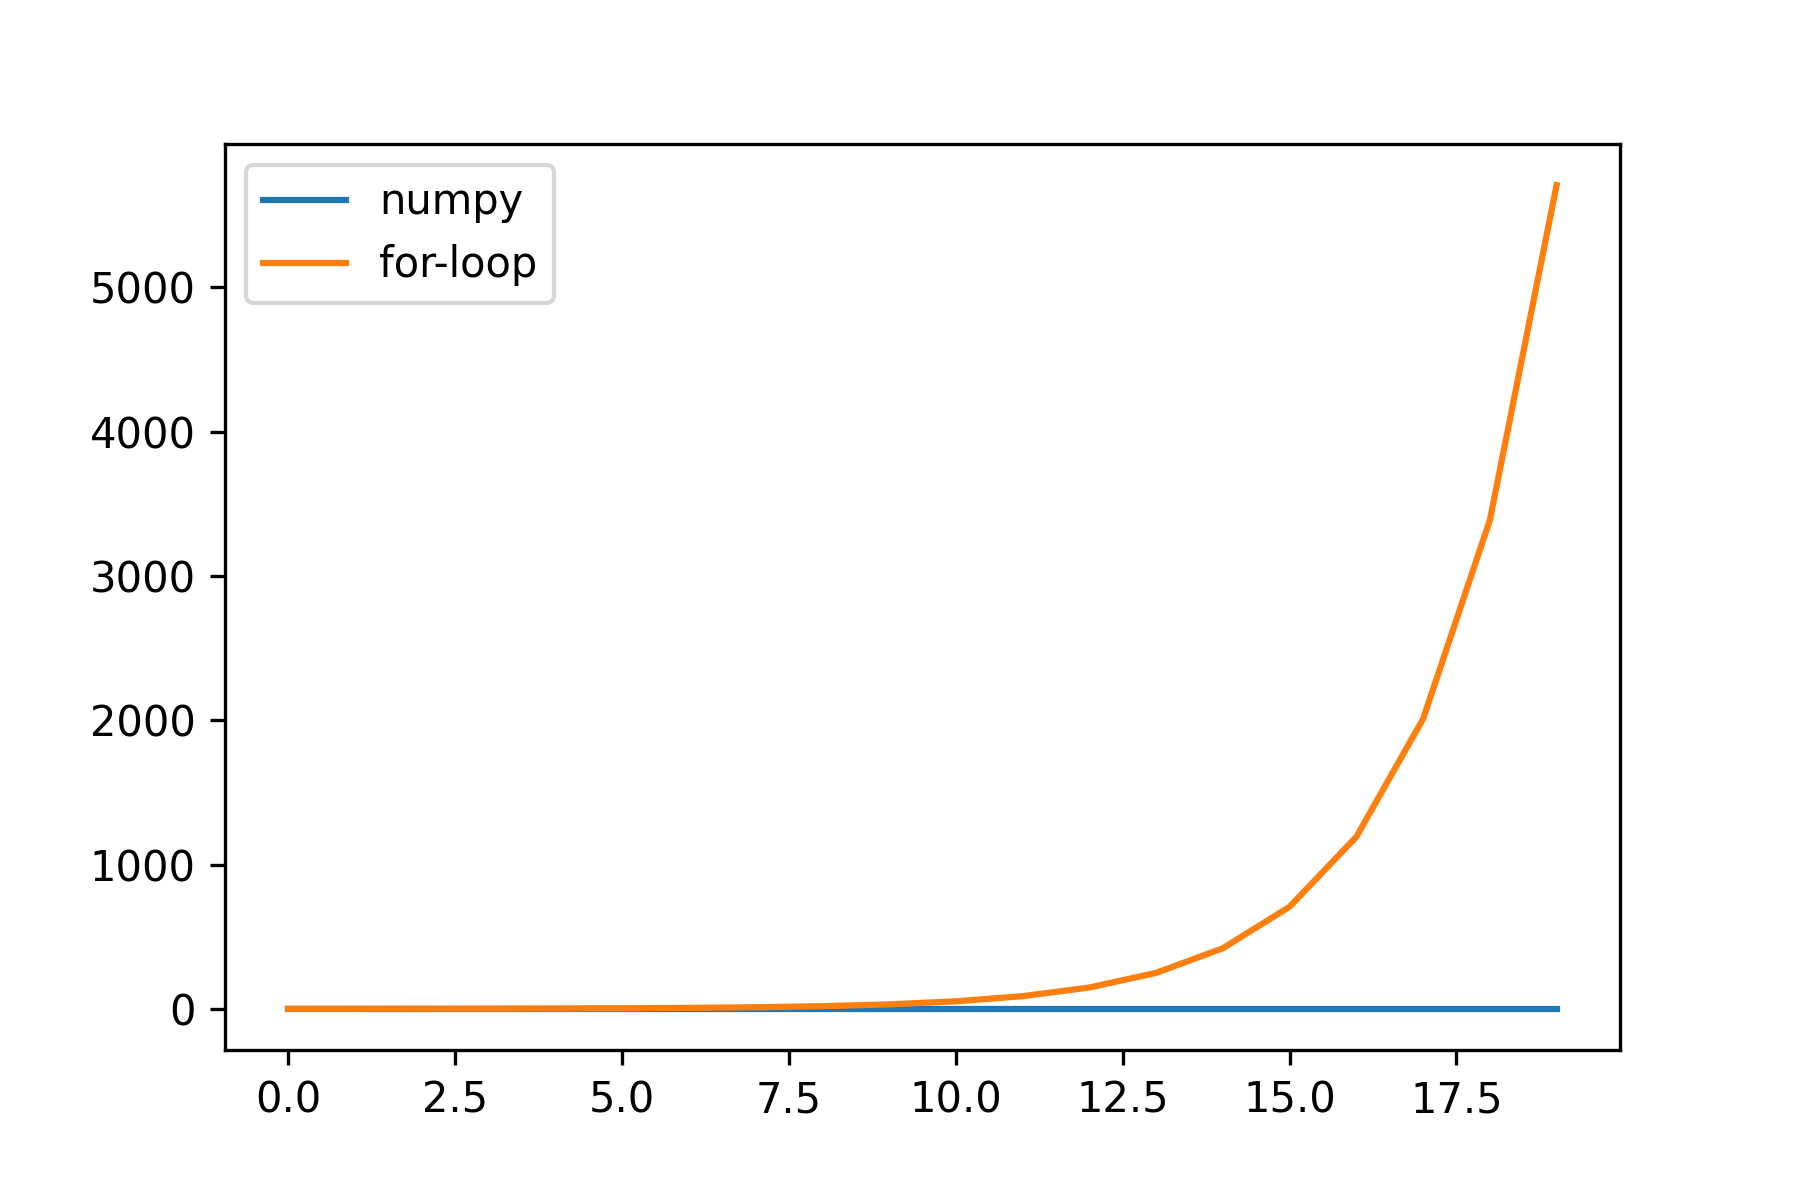
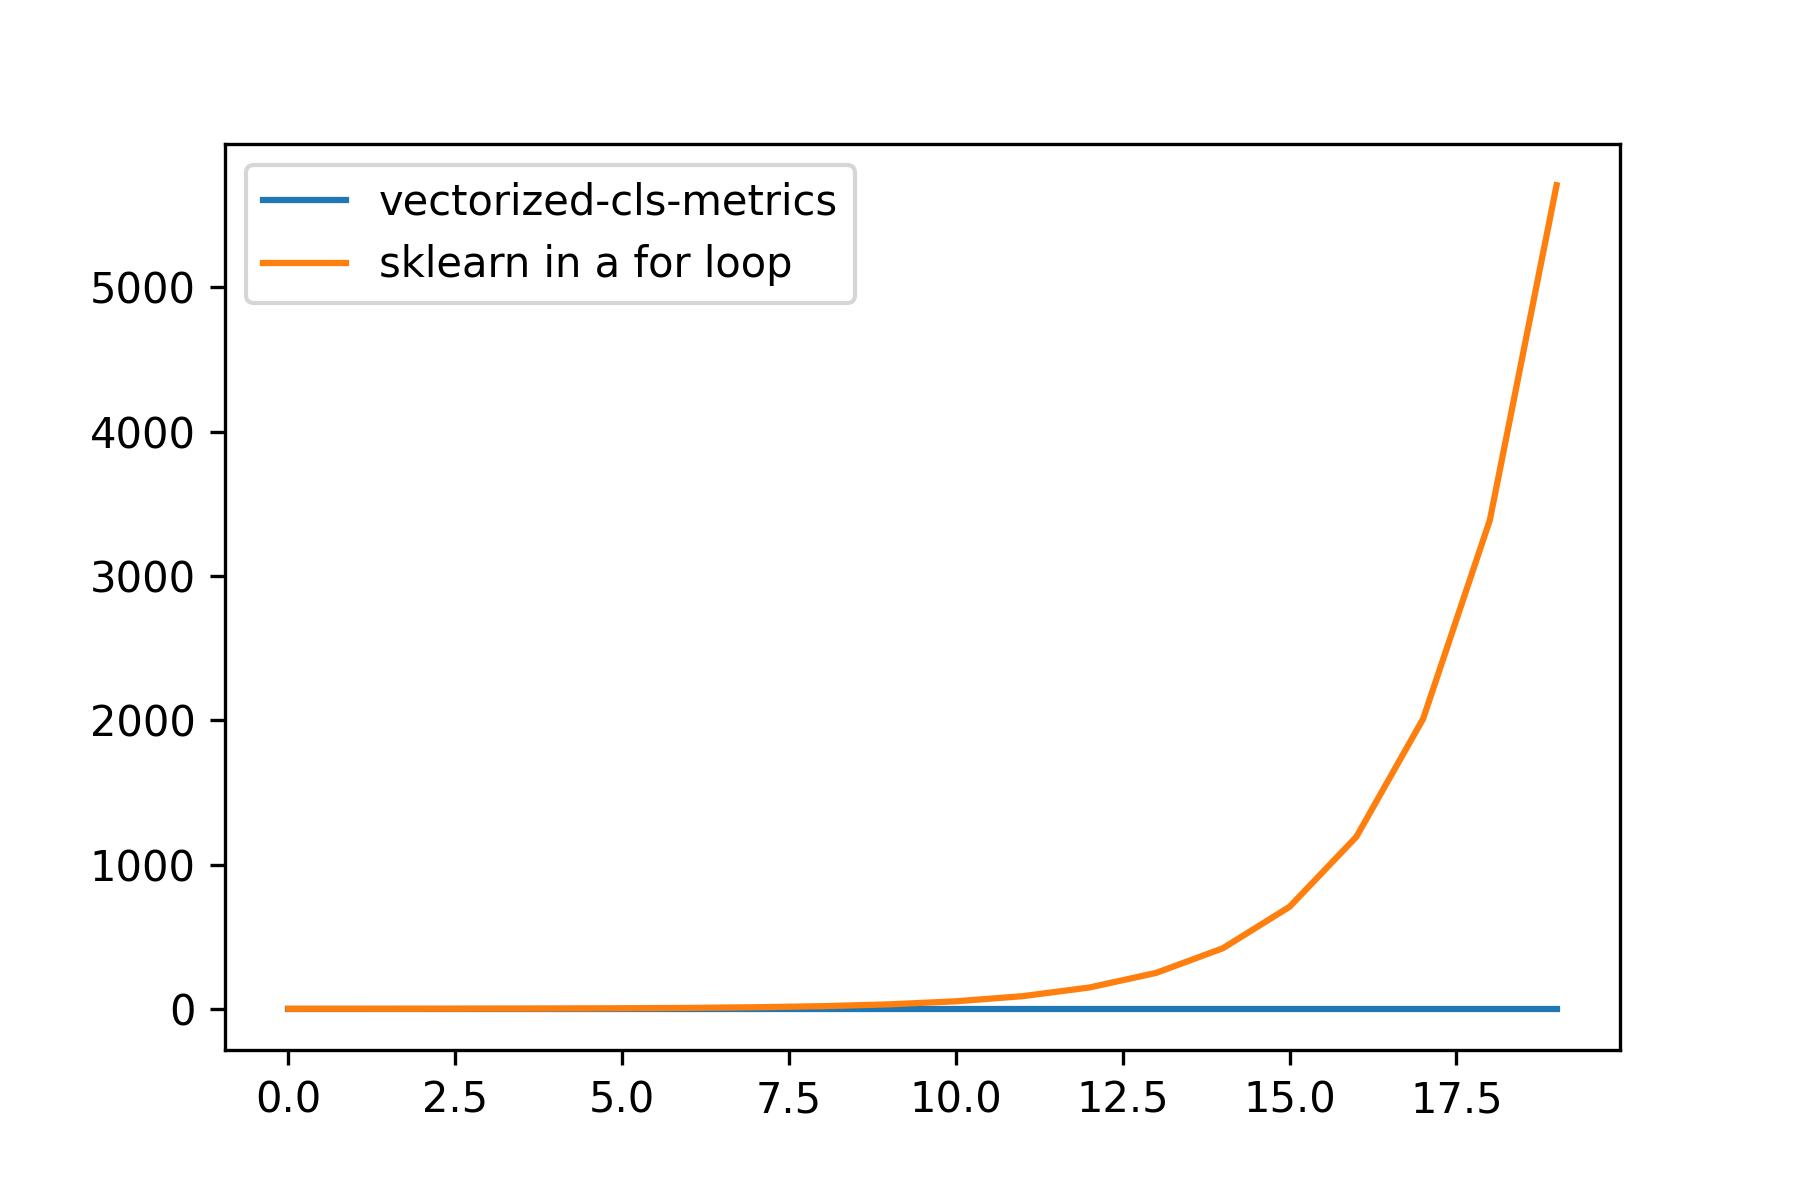
updated readme and notebook

Changed region(s): [[0.2178, 0.1233, 0.4667, 0.2775]]

diff --git a/README.md b/README.md
@@ -6,12 +6,16 @@
 
 ## Introduction
 `vectorized_cls_metrics` is a library the vectorizes the calculation of binary classification metrics. It revolves 
-around `numpy` and builds on the `binary_cls_curve` function from `scikit-learn.metrics`. While the latter focuses on
-providing a robust and consistent API to obtain classification metrics, vectorized_cls_metrics focuses on speed and 
+around `numpy` and builds on the `binary_cls_curve` function from `scikit-learn.metrics`. 
+
+While the latter focuses on
+providing a robust and consistent API to obtain classification metrics, `vectorized_cls_metrics` focuses on speed and 
 outputs classification metrics for all thresholds in a fraction of time that would normally take with the `sklearn` api 
 called in a for-loop.
 
 ![performance](results.png)
+Time required by `vectorized_cls_metrics` and `sklearn` to perform the same calculation. Reproduce this result with the 
+`stats.ipynb` jupyter notebook.  
 
 ## Dependencies
 * `numpy`
